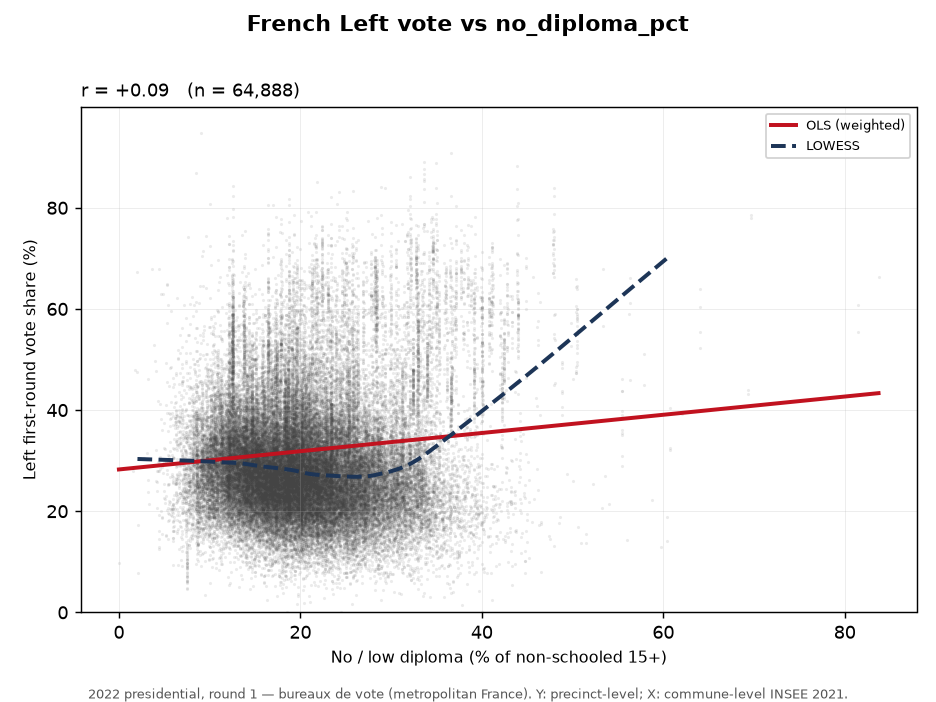
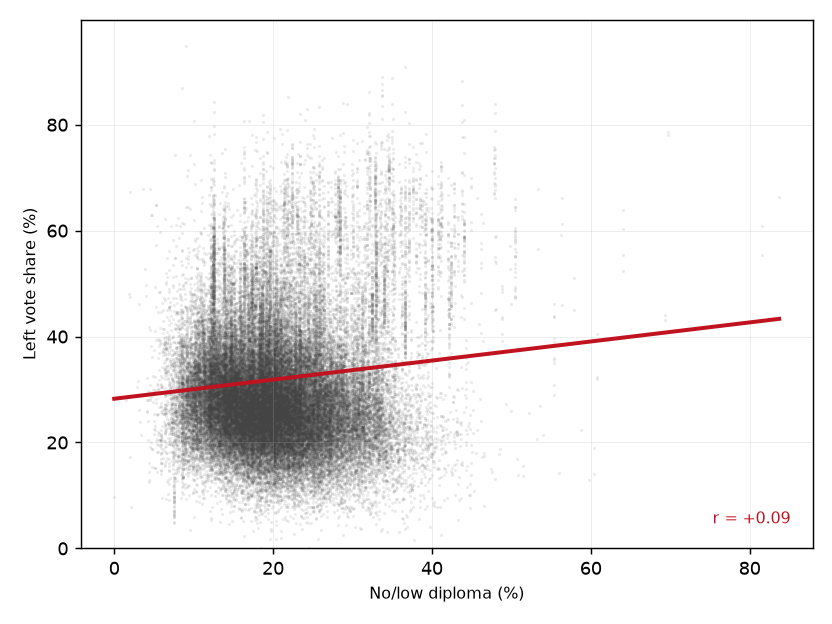
Simplify figures: drop titles/footnotes/LOWESS, keep OLS only
Recreate all precinct scatter plots with minimal in-image text (no baked-in
headers or footnote disclaimers; context lives in the README and captions),
remove the LOWESS smoother, and keep only the OLS trend line. r (and slope where
relevant) annotated compactly in-corner.

Claude-Session: https://claude.ai/code/session_012HqD9aE54SR4WdYcHicAKq

diff --git a/analysis/scatter_left_vs_socioeconomic_2022.py b/analysis/scatter_left_vs_socioeconomic_2022.py
@@ -1,24 +1,17 @@
 #!/usr/bin/env python3
 """
 Precinct-level scatter plots: 2022 first-round Left vote share vs socioeconomic
-characteristics, with OLS + LOWESS trend lines.
+characteristics, with an OLS trend line.
 
-Unit of observation: bureau de vote (polling precinct), metropolitan France,
-2022 presidential election, round 1 (n ~ 67k).
-
-  Y = total Left vote share  (Mélenchon + Jadot + Roussel + Hidalgo + Poutou +
-      Arthaud) / exprimés * 100  -- reproduces the validated national 31.9%.
+Unit: bureau de vote (precinct), metropolitan France, 2022 presidential round 1.
+  Y = total Left vote share (Melenchon+Jadot+Roussel+Hidalgo+Poutou+Arthaud).
   X = commune-level 2021 census/Filosofi attribute attached to each precinct.
 
-NOTE on granularity: the vote share is genuinely at the precinct level; the
-socioeconomic X attributes are commune-level (INSEE 2021) attached to every
-precinct of that commune. This is the lighter alternative to the repository's
-full Tier B dasymetric interpolation (which needs the 676 MB BV contour layer +
-Filosofi 200 m grid). Big cities split into arrondissement-communes (Paris,
-Lyon, Marseille) so an urban gradient is still visible. These are ecological
-(aggregate) relationships, not individual vote behaviour.
+Minimal in-image text (no titles/footnotes) -- context lives in the README and
+file captions. See outputs/figures_2022_precinct/README.md for the granularity
+caveat (X is commune-level; ecological relationships).
 
-Input : bv_2022_analysis.parquet  (built by the companion data-prep step)
+Input : data/processed/bv_2022_analysis.parquet
 Output: outputs/figures_2022_precinct/*.png
 """
 import os
@@ -28,7 +21,6 @@ import matplotlib
 matplotlib.use("Agg")
 import matplotlib.pyplot as plt
 from scipy import stats
-from statsmodels.nonparametric.smoothers_lowess import lowess
 
 HERE = os.path.dirname(os.path.abspath(__file__))
 ROOT = os.path.dirname(HERE)
@@ -38,82 +30,60 @@ os.makedirs(OUTDIR, exist_ok=True)
 
 df = pd.read_parquet(DATA)
 
-# (column, label, log_x)
+# (column, short label, log_x)
 VARS = [
-    ("pop_density",       "Population density (inhab/km², log scale)", True),
-    ("median_income",     "Median disposable income (€/yr, per cons. unit)", False),
-    ("csp_cadres_pct",    "Managers & higher professions — cadres (% of employed)", False),
-    ("csp_ouvriers_pct",  "Manual workers — ouvriers (% of employed)", False),
-    ("csp_employes_pct",  "Clerical & service workers — employés (% of employed)", False),
-    ("higher_ed_pct",     "Higher-education graduates (% of non-schooled 15+)", False),
-    ("no_diploma_pct",    "No / low diploma (% of non-schooled 15+)", False),
+    ("pop_density",      "Population density (log)", True),
+    ("median_income",    "Median income (€)", False),
+    ("csp_cadres_pct",   "% cadres", False),
+    ("csp_ouvriers_pct", "% ouvriers", False),
+    ("csp_employes_pct", "% employés", False),
+    ("higher_ed_pct",    "Higher education (%)", False),
+    ("no_diploma_pct",   "No/low diploma (%)", False),
 ]
-
-YCOL = "left_share"
-YLAB = "Left first-round vote share (%)"
+YCOL, YLAB = "left_share", "Left vote share (%)"
 
 
 def panel(ax, x, y, w, xlabel, logx):
     m = np.isfinite(x) & np.isfinite(y) & np.isfinite(w)
     x, y, w = x[m], y[m], w[m]
     xp = np.log10(x) if logx else x
-    # scatter (small, translucent — 67k points)
     ax.scatter(x, y, s=3, alpha=0.10, color="#444444", linewidths=0, rasterized=True)
     if logx:
         ax.set_xscale("log")
-    # OLS (weighted by exprimés) on the plotted x-metric
     sl, ic = np.polyfit(xp, y, 1, w=w)
     gx = np.linspace(xp.min(), xp.max(), 200)
-    gxr = 10 ** gx if logx else gx
-    ax.plot(gxr, ic + sl * gx, color="#c1121f", lw=2.2, label="OLS (weighted)")
-    # LOWESS on a sample for speed
-    n = len(xp)
-    idx = np.random.default_rng(0).choice(n, size=min(n, 8000), replace=False)
-    lo = lowess(y[idx], xp[idx], frac=0.4, return_sorted=True)
-    lx = 10 ** lo[:, 0] if logx else lo[:, 0]
-    ax.plot(lx, lo[:, 1], color="#1d3557", lw=2.2, ls="--", label="LOWESS")
-    # stats (Pearson r on x-metric, weighted slope reported per unit)
+    ax.plot(10 ** gx if logx else gx, ic + sl * gx, color="#c1121f", lw=2.2)
     r = stats.pearsonr(xp, y)[0]
     ax.set_xlabel(xlabel, fontsize=9)
     ax.set_ylabel(YLAB, fontsize=9)
     ax.set_ylim(0, min(100, y.max() + 5))
     ax.grid(alpha=0.25, lw=0.5)
-    ax.set_title(f"r = {r:+.2f}   (n = {len(x):,})", fontsize=10, loc="left")
-    ax.legend(fontsize=7, loc="upper right", framealpha=0.85)
+    ax.text(0.97, 0.04, f"r = {r:+.2f}", transform=ax.transAxes,
+            fontsize=9, ha="right", va="bottom", color="#c1121f")
 
 
 # --- individual figures ---
-saved = []
 for col, lab, logx in VARS:
-    fig, ax = plt.subplots(figsize=(7.2, 5.4))
+    fig, ax = plt.subplots(figsize=(6.4, 4.8))
     panel(ax, df[col].to_numpy(float), df[YCOL].to_numpy(float),
           df["exprimes"].to_numpy(float), lab, logx)
-    fig.suptitle("French Left vote vs " + col, fontsize=12, fontweight="bold")
-    fig.text(0.5, 0.005,
-             "2022 presidential, round 1 — bureaux de vote (metropolitan France). "
-             "Y: precinct-level; X: commune-level INSEE 2021.",
-             ha="center", fontsize=7, color="#555555")
-    fig.tight_layout(rect=(0, 0.02, 1, 0.97))
+    fig.tight_layout()
     out = os.path.join(OUTDIR, f"left_vs_{col}.png")
     fig.savefig(out, dpi=130)
     plt.close(fig)
-    saved.append(out)
     print("saved", out)
 
 # --- combined grid ---
 ncol = 2
 nrow = int(np.ceil(len(VARS) / ncol))
-fig, axes = plt.subplots(nrow, ncol, figsize=(13, 4.4 * nrow))
+fig, axes = plt.subplots(nrow, ncol, figsize=(11, 3.6 * nrow))
 for ax, (col, lab, logx) in zip(axes.flat, VARS):
     panel(ax, df[col].to_numpy(float), df[YCOL].to_numpy(float),
           df["exprimes"].to_numpy(float), lab, logx)
 for ax in axes.flat[len(VARS):]:
     ax.axis("off")
-fig.suptitle("French Left first-round vote share (2022) vs socioeconomic characteristics — precinct level",
-             fontsize=14, fontweight="bold")
-fig.tight_layout(rect=(0, 0, 1, 0.985))
+fig.tight_layout()
 grid = os.path.join(OUTDIR, "left_vs_socioeconomic_grid_2022.png")
 fig.savefig(grid, dpi=120)
 plt.close(fig)
 print("saved", grid)
-print("DONE", len(saved) + 1, "figures")

diff --git a/analysis/scatter_left_vs_highered_lowincome_2002_vs_2022.py b/analysis/scatter_left_vs_highered_lowincome_2002_vs_2022.py
@@ -1,27 +1,12 @@
 #!/usr/bin/env python3
 """
 Side-by-side: 2002 vs 2022 first-round Left vote share vs higher-education share,
-restricted to the BOTTOM 30% of precincts by median income.
+restricted to the bottom 30% of precincts by median income. OLS trend only.
 
-Each election is paired with the NEAREST-AVAILABLE INSEE census/Filosofi vintage
-(Filosofi income does not exist before 2012):
-    2002 election  ->  2012 census + Filosofi 2012   (first Filosofi millesime)
-    2022 election  ->  2021 census + Filosofi 2021
-Both the income filter and the higher-education axis use that election's vintage.
-
-Higher education (higher_ed_pct) = highest diploma is tertiary, Bac+2 and above,
-as a share of people aged 15+ no longer in school (non scolarises 15+):
-    2012: 100 * (P12_NSCOL15P_BACP2 + P12_NSCOL15P_SUP) / P12_NSCOL15P
-    2021: 100 * (P21_NSCOL15P_SUP2 + P21_NSCOL15P_SUP34 + P21_NSCOL15P_SUP5)
-                / P21_NSCOL15P
-(BACP2/SUP2 = Bac+2; SUP / SUP34+SUP5 = Bac+3 and above.)
-
-Left coalition (data/lookups/left_classification.csv, is_left==1):
-  2002: Jospin, Hue, Mamere, Taubira, Chevenement, Besancenot, Laguiller, Gluckstein
-  2022: Melenchon, Jadot, Roussel, Hidalgo, Poutou, Arthaud
-
-Bottom 30% = precincts whose commune median income <= the 30th percentile of
-median income within that election's precinct set.
+Each election paired with the nearest-available INSEE census/Filosofi vintage
+(no Filosofi income before 2012): 2002 -> 2012 census, 2022 -> 2021 census.
+Higher education = highest diploma tertiary (Bac+2 and above) as a share of
+people aged 15+ no longer in school. Minimal in-image text; context in README.
 """
 import os
 import numpy as np
@@ -30,14 +15,12 @@ import matplotlib
 matplotlib.use("Agg")
 import matplotlib.pyplot as plt
 from scipy import stats
-from statsmodels.nonparametric.smoothers_lowess import lowess
 
 ROOT = os.path.dirname(os.path.dirname(os.path.abspath(__file__)))
 PROC = os.path.join(ROOT, "data", "processed")
 OUTDIR = os.path.join(ROOT, "outputs", "figures_2022_precinct")
 os.makedirs(OUTDIR, exist_ok=True)
 
-# year -> (analysis parquet, census vintage label)
 YEARS = {
     2002: ("bv_2002_analysis_c2012.parquet", 2012),
     2022: ("bv_2022_analysis.parquet", 2021),
@@ -51,54 +34,36 @@ def prep(fn):
     return d[d.median_income <= cut].copy(), cut
 
 
-def panel(ax, low, year, vintage, cut, xlim, ylim):
+def panel(ax, low, year, vintage, xlim, ylim):
     x = low.higher_ed_pct.to_numpy(float)
     y = low.left_share.to_numpy(float)
     w = low.exprimes.to_numpy(float)
     ax.scatter(x, y, s=4, alpha=0.12, color="#444444", linewidths=0, rasterized=True)
     sl, ic = np.polyfit(x, y, 1, w=w)
     gx = np.linspace(x.min(), x.max(), 200)
-    ax.plot(gx, ic + sl * gx, color="#c1121f", lw=2.4, label=f"OLS: {sl:+.2f} pp / +1pp")
-    idx = np.random.default_rng(0).choice(len(x), size=min(len(x), 8000), replace=False)
-    lo = lowess(y[idx], x[idx], frac=0.4, return_sorted=True)
-    ax.plot(lo[:, 0], lo[:, 1], color="#1d3557", lw=2.4, ls="--", label="LOWESS")
+    ax.plot(gx, ic + sl * gx, color="#c1121f", lw=2.4)
     r = stats.pearsonr(x, y)[0]
-    wm = np.average(y, weights=w)
     ax.set_xlim(*xlim)
     ax.set_ylim(*ylim)
     ax.grid(alpha=0.25, lw=0.5)
-    ax.set_xlabel(f"Higher-education graduates — Bac+2 and above\n"
-                  f"(% of 15+ no longer in school, INSEE {vintage})", fontsize=9)
-    ax.set_ylabel("Left first-round vote share (%)", fontsize=9)
-    ax.legend(fontsize=8, loc="upper left", framealpha=0.9)
-    ax.set_title(f"{year} election (census {vintage})   |   n = {len(low):,}   "
-                 f"r = {r:+.2f}   weighted Left {wm:.1f}%",
-                 fontsize=10.5, loc="left", fontweight="bold")
-    return dict(year=year, vintage=vintage, n=len(low), r=r, slope=sl, wmean=wm, cut=cut)
+    ax.set_xlabel(f"Higher education (%) — INSEE {vintage}", fontsize=9)
+    ax.set_ylabel("Left vote share (%)", fontsize=9)
+    ax.text(0.04, 0.96, str(year), transform=ax.transAxes, fontsize=12,
+            ha="left", va="top", fontweight="bold")
+    ax.text(0.97, 0.05, f"r = {r:+.2f}\nslope = {sl:+.2f}", transform=ax.transAxes,
+            fontsize=9, ha="right", va="bottom", color="#c1121f")
 
 
-sets = {y: (prep(v[0]) + (v[1],)) for y, v in YEARS.items()}  # year -> (low, cut, vintage)
-allx = np.concatenate([s[0].higher_ed_pct.to_numpy(float) for s in sets.values()])
+sets = {y: (prep(v[0])[0], v[1]) for y, v in YEARS.items()}
+allx = np.concatenate([low.higher_ed_pct.to_numpy(float) for low, _ in sets.values()])
 xlim = (0, np.nanpercentile(allx, 99.5))
 ylim = (0, 75)
 
-fig, axes = plt.subplots(1, 2, figsize=(14, 6.2), sharey=True)
-rows = []
+fig, axes = plt.subplots(1, 2, figsize=(12, 5.4), sharey=True)
 for ax, y in zip(axes, [2002, 2022]):
-    low, cut, vintage = sets[y]
-    rows.append(panel(ax, low, y, vintage, cut, xlim, ylim))
-
-fig.suptitle("French Left first-round vote vs higher education — lowest-income precincts (bottom 30%)\n"
-             "2002 vs 2022, bureaux de vote (metropolitan France); each election paired with nearest INSEE census",
-             fontsize=13, fontweight="bold")
-fig.text(0.5, 0.005,
-         "Bottom 30% by commune median income (2002/2012 cutoff EUR {:.0f}; 2022/2021 cutoff EUR {:.0f}). "
-         "Y precinct-level; income & higher-ed commune-level. Ecological relationships."
-         .format(rows[0]["cut"], rows[1]["cut"]),
-         ha="center", fontsize=7.5, color="#555555")
-fig.tight_layout(rect=(0, 0.025, 1, 0.93))
+    low, vintage = sets[y]
+    panel(ax, low, y, vintage, xlim, ylim)
+fig.tight_layout()
 out = os.path.join(OUTDIR, "left_vs_higher_ed_bottom30_income_2002_vs_2022.png")
 fig.savefig(out, dpi=140)
 print("saved", out)
-for s in rows:
-    print(s)

diff --git a/analysis/scatter_left_vs_highered_lowincome_2022.py b/analysis/scatter_left_vs_highered_lowincome_2022.py
@@ -1,19 +1,11 @@
 #!/usr/bin/env python3
 """
 2022 first-round Left vote share vs higher-education share, restricted to the
-BOTTOM 30% of precincts by commune median disposable income.
+bottom 30% of precincts by commune median disposable income. OLS trend only.
 
-Higher education (higher_ed_pct), INSEE 2021 diplomes-formation file:
-    100 * (P21_NSCOL15P_SUP2 + P21_NSCOL15P_SUP34 + P21_NSCOL15P_SUP5)
-          / P21_NSCOL15P
-  base   = people aged 15+ no longer in school (non scolarises 15+)
-  numer. = highest diploma is tertiary / Bac+2 and above
-           SUP2  = Bac+2 (BTS, DUT, ...)
-           SUP34 = Bac+3 / Bac+4 (licence, maitrise)
-           SUP5  = Bac+5 or higher (master, grande ecole, doctorat)
-
-Bottom 30% = precincts whose commune median income is <= the 30th percentile of
-median income across all precincts.
+Higher education = highest diploma tertiary (Bac+2 and above) as a share of
+people aged 15+ no longer in school (INSEE 2021). Minimal in-image text;
+context in the README / caption.
 """
 import os
 import numpy as np
@@ -22,7 +14,6 @@ import matplotlib
 matplotlib.use("Agg")
 import matplotlib.pyplot as plt
 from scipy import stats
-from statsmodels.nonparametric.smoothers_lowess import lowess
 
 ROOT = os.path.dirname(os.path.dirname(os.path.abspath(__file__)))
 df = pd.read_parquet(os.path.join(ROOT, "data", "processed", "bv_2022_analysis.parquet"))
@@ -37,40 +28,19 @@ x = low.higher_ed_pct.to_numpy(float)
 y = low.left_share.to_numpy(float)
 w = low.exprimes.to_numpy(float)
 
-fig, ax = plt.subplots(figsize=(8, 6))
+fig, ax = plt.subplots(figsize=(7, 5.2))
 ax.scatter(x, y, s=4, alpha=0.12, color="#444444", linewidths=0, rasterized=True)
-
-# OLS, vote-weighted
 sl, ic = np.polyfit(x, y, 1, w=w)
 gx = np.linspace(x.min(), x.max(), 200)
-ax.plot(gx, ic + sl * gx, color="#c1121f", lw=2.4,
-        label=f"OLS (weighted): slope {sl:+.2f} pp / +1pp higher-ed")
-
-# LOWESS
-rng = np.random.default_rng(0)
-idx = rng.choice(len(x), size=min(len(x), 8000), replace=False)
-lo = lowess(y[idx], x[idx], frac=0.4, return_sorted=True)
-ax.plot(lo[:, 0], lo[:, 1], color="#1d3557", lw=2.4, ls="--", label="LOWESS")
-
+ax.plot(gx, ic + sl * gx, color="#c1121f", lw=2.4)
 r = stats.pearsonr(x, y)[0]
-wm = np.average(y, weights=w)
-ax.set_xlabel("Higher-education graduates — Bac+2 and above\n(% of population aged 15+ no longer in school)", fontsize=10)
-ax.set_ylabel("Left first-round vote share (%)", fontsize=10)
+ax.set_xlabel("Higher education (%)", fontsize=10)
+ax.set_ylabel("Left vote share (%)", fontsize=10)
 ax.set_ylim(0, min(100, y.max() + 5))
 ax.grid(alpha=0.25, lw=0.5)
-ax.legend(fontsize=8, loc="upper left", framealpha=0.9)
-ax.set_title(
-    f"Bottom 30% of precincts by income (commune median ≤ €{cut:,.0f})\n"
-    f"n = {len(low):,} precincts   |   r = {r:+.2f}   |   weighted Left share {wm:.1f}%",
-    fontsize=11, loc="left")
-fig.suptitle("2022 Left first-round vote vs higher education — lowest-income precincts",
-             fontsize=13, fontweight="bold")
-fig.text(0.5, 0.005,
-         "2022 presidential round 1, bureaux de vote (metropolitan France). "
-         "Y precinct-level; higher-ed & income commune-level INSEE 2021.",
-         ha="center", fontsize=7.5, color="#555555")
-fig.tight_layout(rect=(0, 0.02, 1, 0.96))
+ax.text(0.97, 0.05, f"r = {r:+.2f}\nslope = {sl:+.2f}", transform=ax.transAxes,
+        fontsize=9, ha="right", va="bottom", color="#c1121f")
+fig.tight_layout()
 out = os.path.join(OUTDIR, "left_vs_higher_ed_bottom30_income_2022.png")
 fig.savefig(out, dpi=140)
-print("saved", out)
-print(f"cutoff EUR {cut:,.0f}; n={len(low):,}; r={r:+.3f}; slope={sl:+.3f}; weighted Left {wm:.2f}%")
+print("saved", out, f"| cutoff €{cut:,.0f} n={len(low):,} r={r:+.3f} slope={sl:+.3f}")
